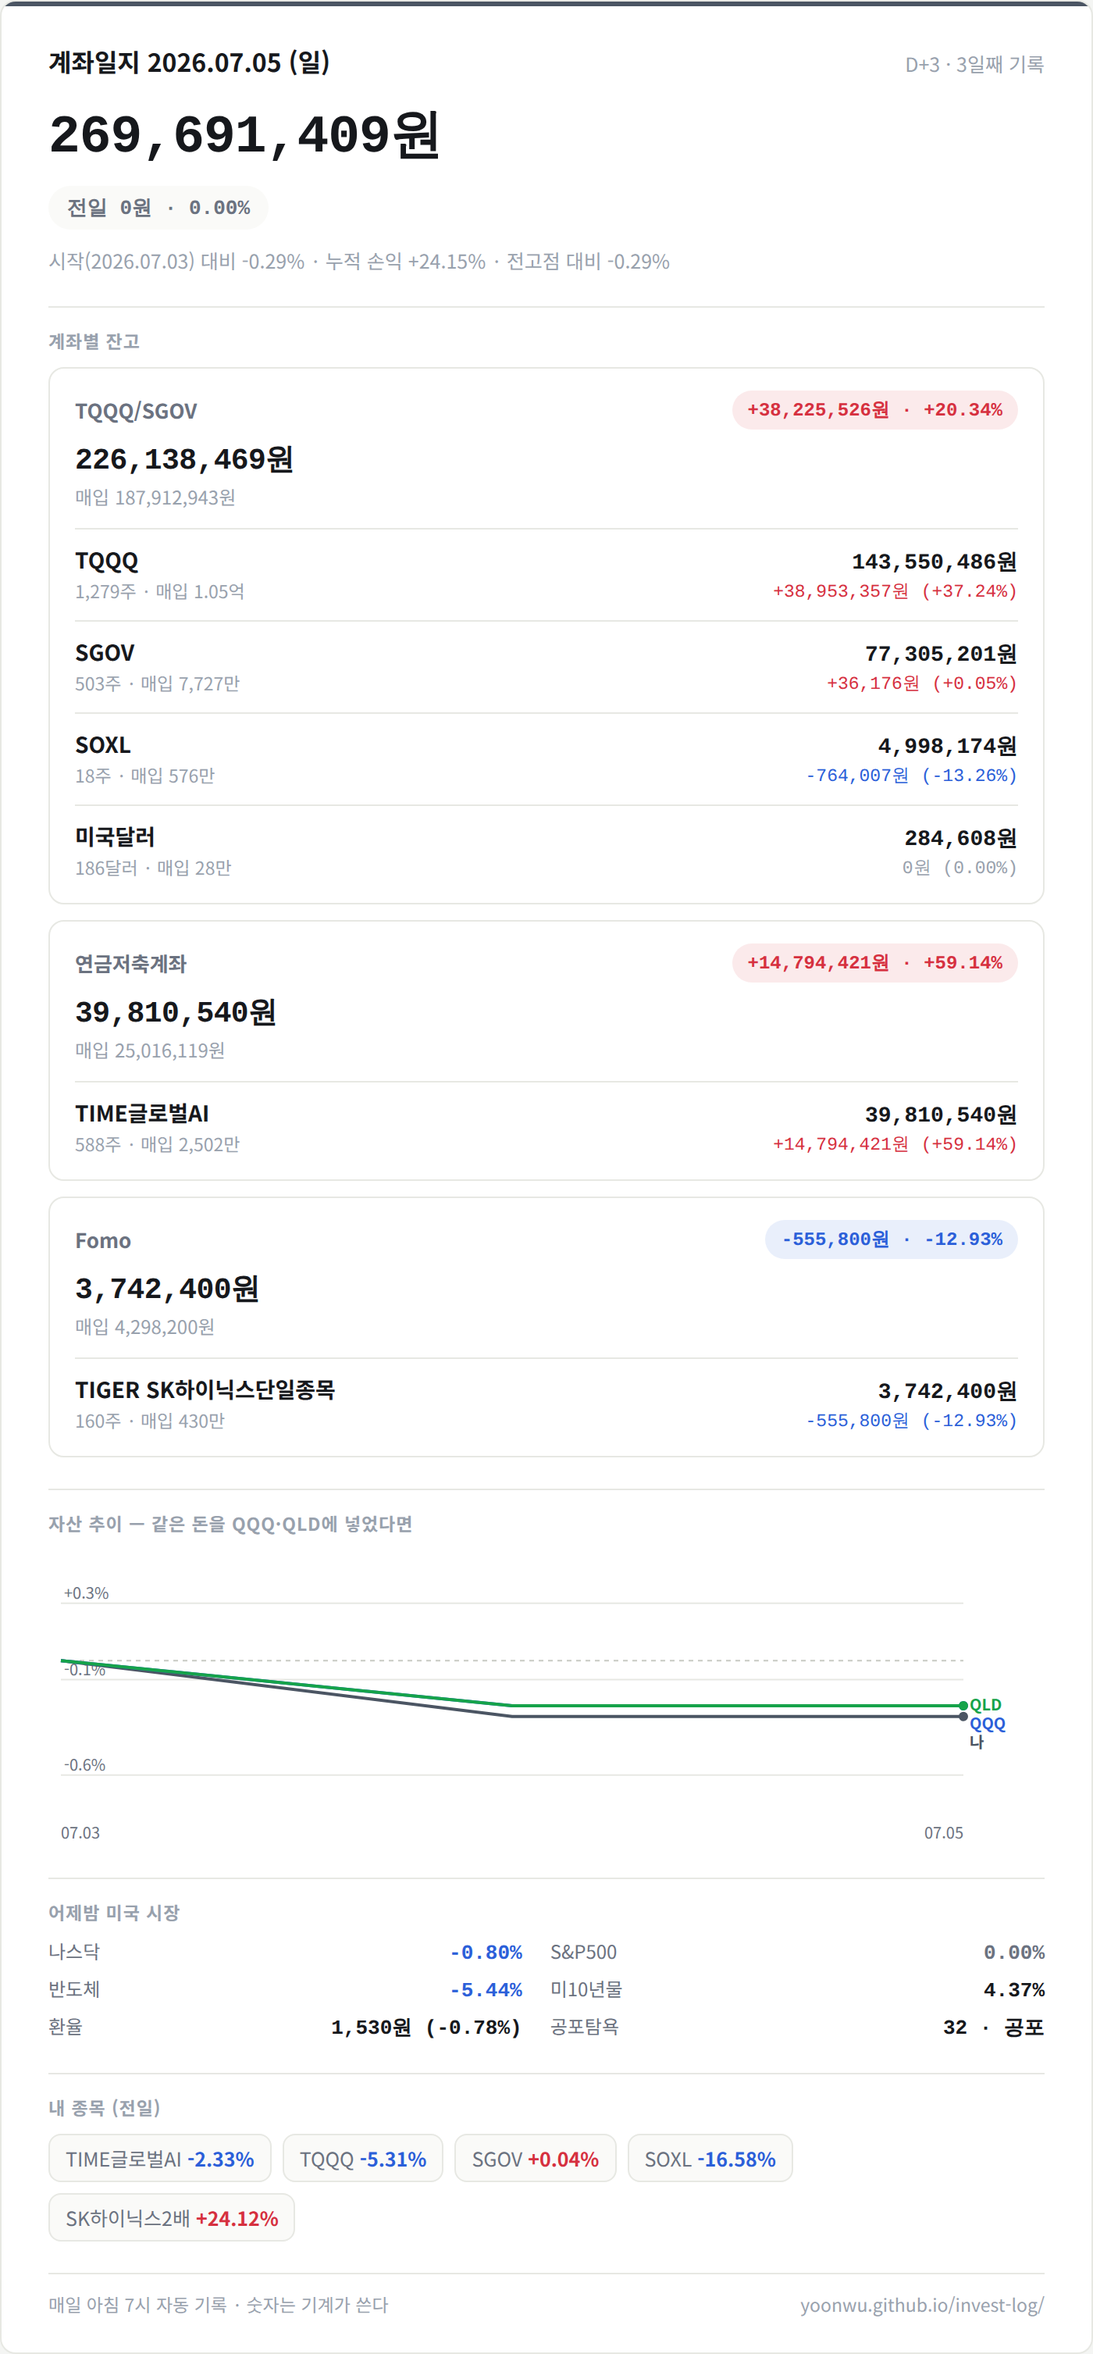
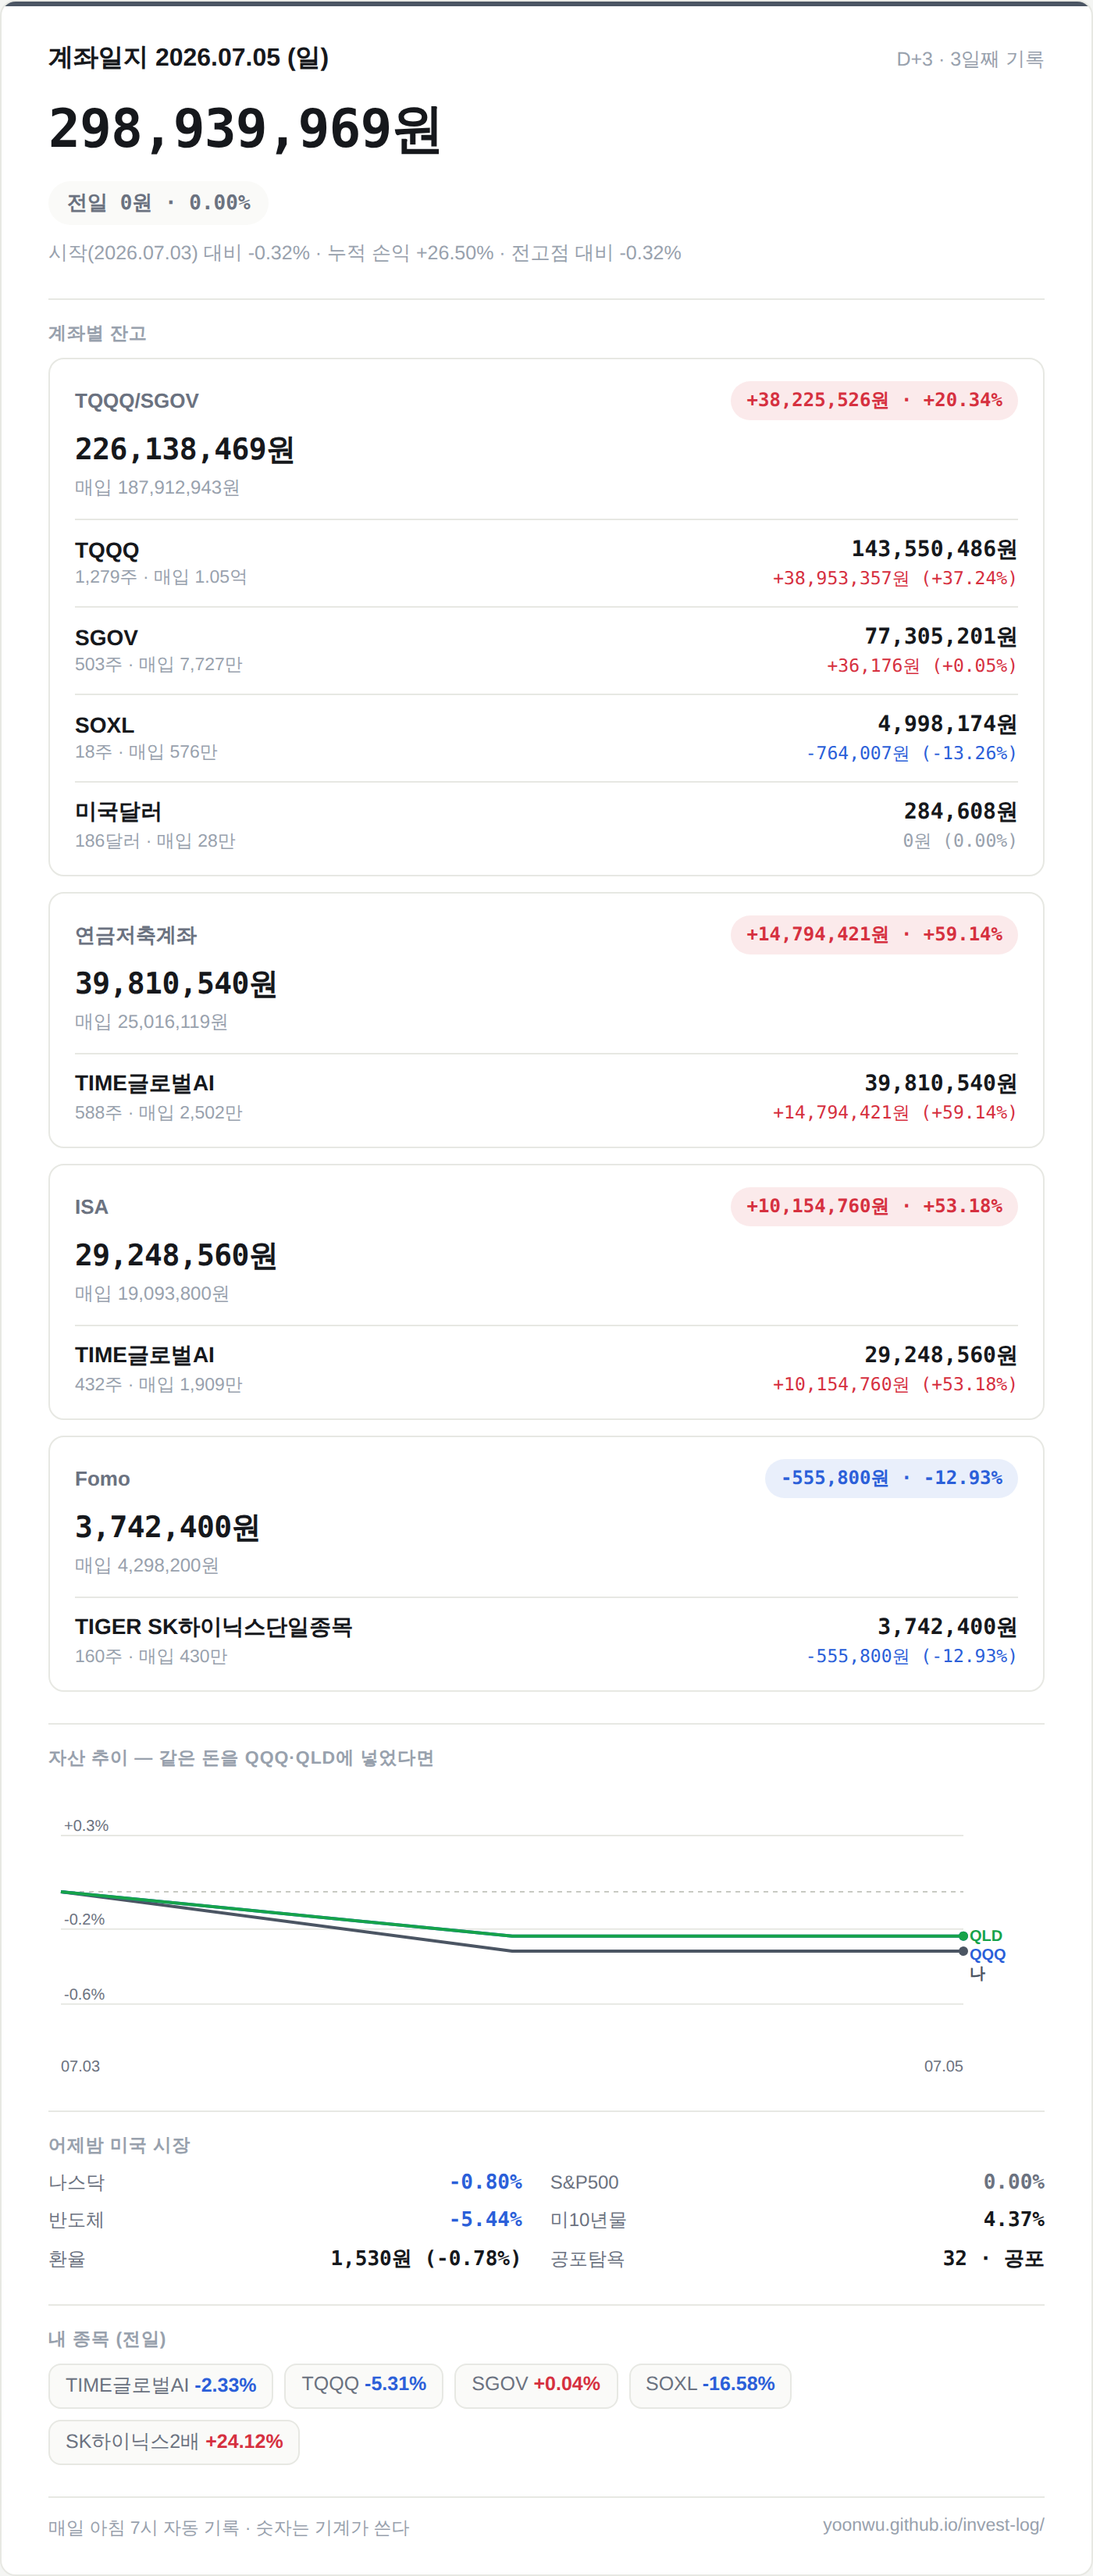
ISA 계좌(TIME글로벌AI 432주) 추적 편입 — 시작부터 소급
- positions.json에 ISA 계좌 추가 (456600, 432주, 매입단가 44,198.61원)
- 같은 티커가 여러 계좌에 있으면 수량이 덮어써지던 버그 수정 (합산 처리)
- 시작 스냅샷(start.json)·history 3일치·valuation을 처음부터 4계좌로 소급
  → 그래프에 가짜 +2,900만원 점프 없이 자연스럽게 이어짐
- 시작 글·카드 이미지에도 ISA 반영
- ISA 평가 29,248,560원 (+10,154,760원), 앱 표시값과 일치

diff --git a/_posts/2026-07-04-start.md b/_posts/2026-07-04-start.md
@@ -15,8 +15,9 @@ title: "시작 — 2026년 7월, 지금 숫자를 박제한다"
 |---|---|
 | TQQQ/SGOV | 229,699,102원 |
 | 연금저축계좌 (TIME글로벌AI) | 39,819,888원 |
+| ISA (TIME글로벌AI) | 29,248,560원 |
 | Fomo (TIGER SK하이닉스단일종목 + CMA) | 8,065,980원 |
-| **합계** | **277,584,970원** |
+| **합계** | **306,833,530원** |
 
 위 숫자는 2026년 7월 4일 증권사 앱에 표시된 값 그대로다. 블로그 첫 화면 위젯은
 일 1회 자동 스냅샷(환율 환산)으로 계산하기 때문에 이 값과 1% 안팎 차이가 날 수 있고,
@@ -44,6 +45,12 @@ Fomo 계좌의 CMA 현금은 위젯 집계에는 넣지 않는다.
 | 종목 | 수량 | 매입금액 | 평가금액 | 손익 |
 |---|---|---|---|---|
 | TIME 글로벌AI인공지능액티브 | 588주 (단가 42,544원) | 25,016,120원 | 39,810,540원 | +14,794,420원 (+59.14%) |
+
+**ISA — 29,248,560원** (**+10,154,760원 · +53.20%**)
+
+| 종목 | 수량 | 매입금액 | 평가금액 | 손익 |
+|---|---|---|---|---|
+| TIME 글로벌AI인공지능액티브 | 432주 | 19,093,800원 | 29,248,560원 | +10,154,760원 (+53.20%) |
 
 **Fomo — 8,065,980원**
 
